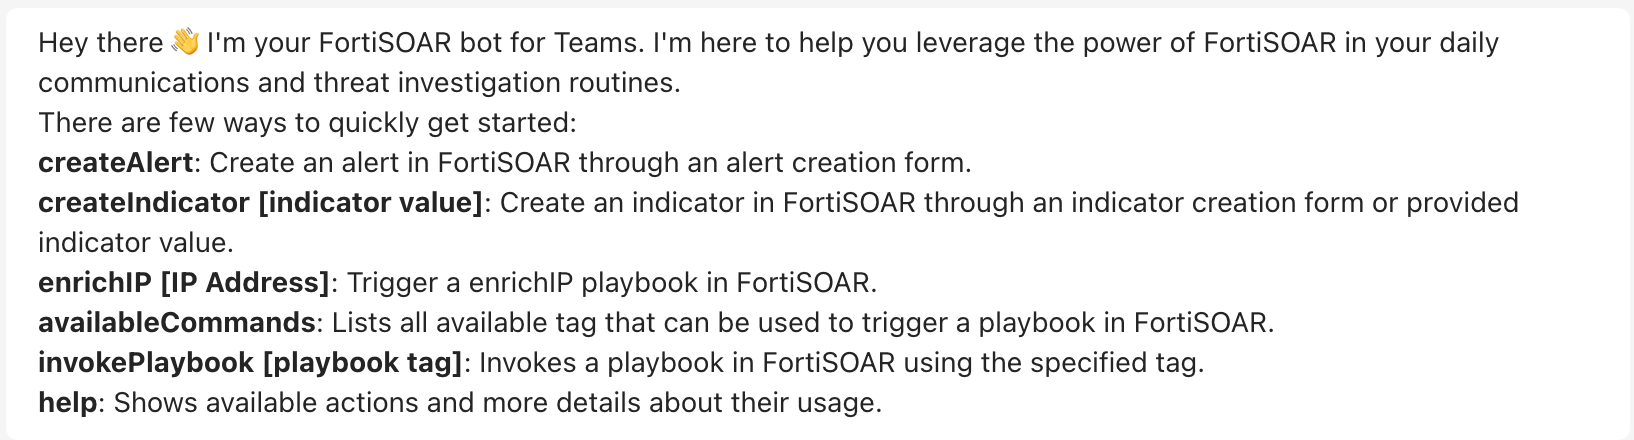
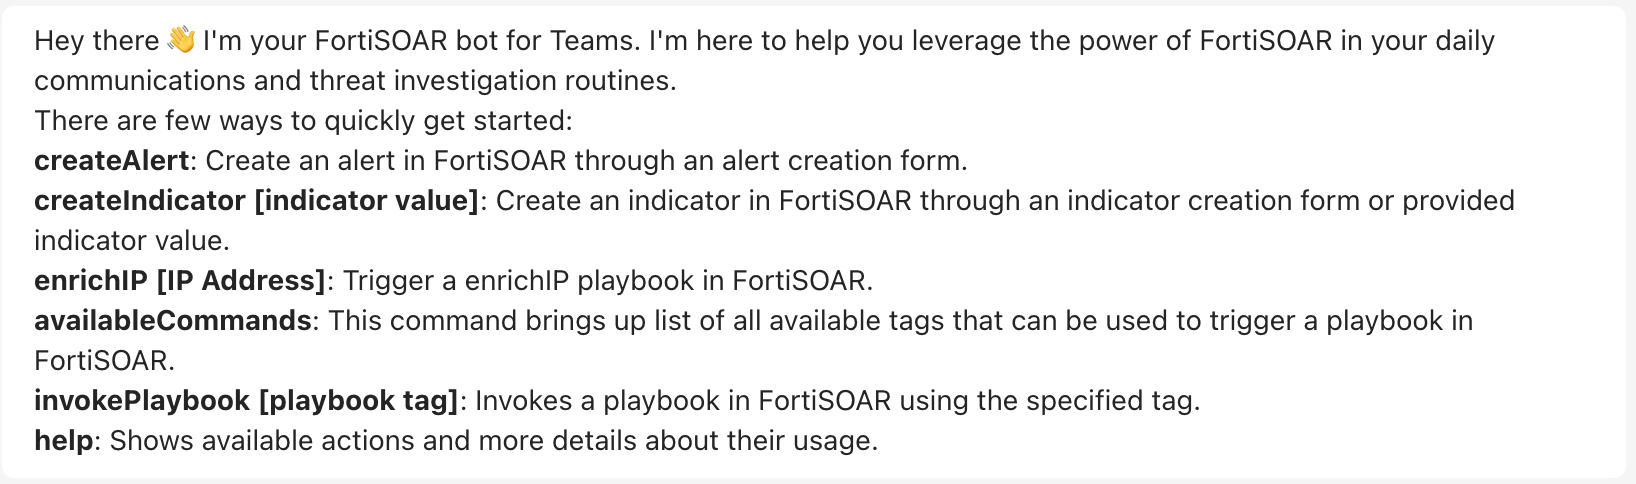
addressed review comments

diff --git a/docs/usage.md b/docs/usage.md
@@ -45,7 +45,7 @@ For more information and examples for this command, refer to the [Adding an indi
 
 ## `@fortiSOAR availableCommands`
 
-This command brings up lists all available tags that can be used to trigger a playbook.
+This command brings up list of all available tags that can be used to trigger a playbook in FortiSOAR.
 ```
 @fortiSOAR availableCommands
 ```
